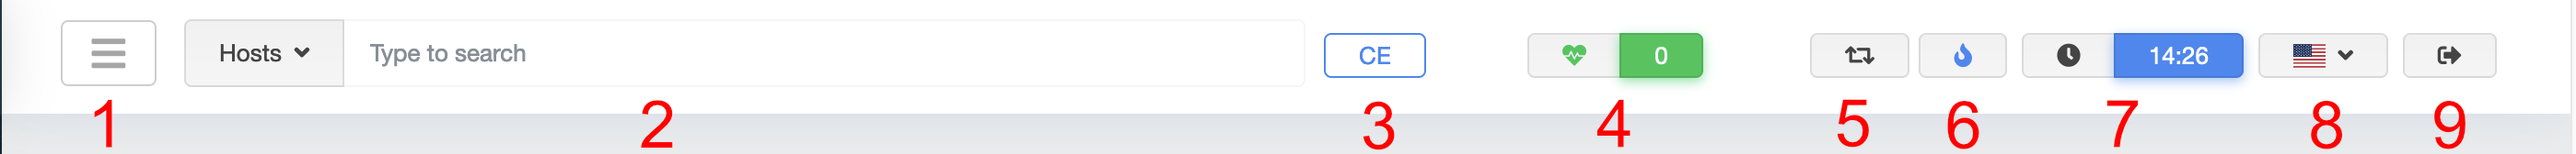
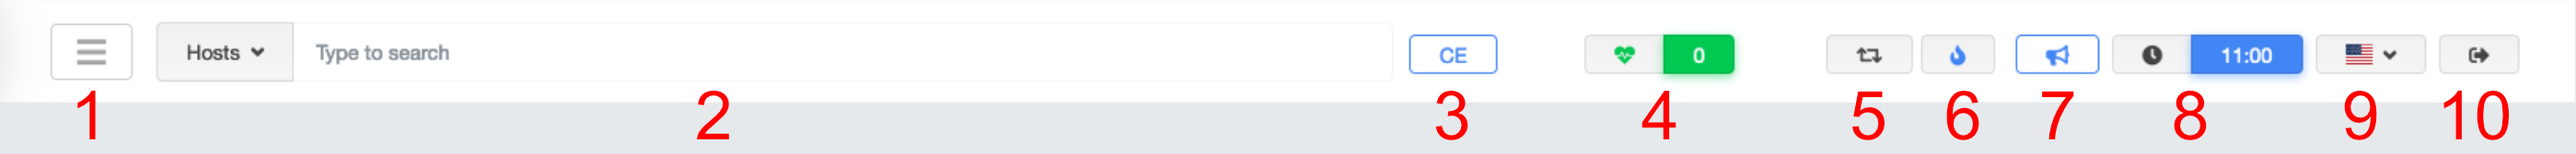
Documentation for 'Message of the day' added

diff --git a/de/docs/configuration/usermanagement.md b/de/docs/configuration/usermanagement.md
@@ -141,3 +141,27 @@ Benutzer Container Rolle verwendet werden.
 |---|---|---|
 | Rollenname | :fontawesome-solid-times: | Name der Benutzer Container Rolle |
 | Container | :fontawesome-solid-times: | [Container](../container/), welche der Benutzer Container Rolle zugewiesen werden sollen  |
+
+
+### Meldung des Tages erstellen
+
+
+| Feld | Erforderlich | Beschreibung |
+|---|---|---|
+| Title | :fontawesome-solid-times: | Pflichtfeld - Der Title wird ganz oben angezeigt und wird als Überschrift verwendet |
+| Description | | Hier erhält Benutzer die Möglichkeit eine kurze Beschreibung für die Meldung des Tages zu hinterlegen |
+| Datum | :fontawesome-solid-times: | Pflichtfeld -Das Datum wird für das Anzeigen des Meldung des Tages verwendet |
+| Ablaufdauer | | Optionales Pflichtfeld - mit dem Setzen der Ablaufdauer wird die Meldung des Tages nur vorübergehend angezeigt  |
+| Filter für Benutzergruppe| | Hier kann die Sichtbarkeit für Meldung des Tages für bestimmte Gruppen eingeschränkt werden |
+| Benachrichtigung für Benutzer | | Wenn aktiv, werden betroffene Benutzer per Email benachrichtigt |
+| Style | :fontawesome-solid-times: | Folgende Style-Eigenschaften stehen zur Auswahl: <span class="badge badge-info" title="info">info</span> <span class="badge badge-primary" title="primary">primary</span> <span class="badge badge-success" title="success">success</span> <span class="badge badge-warning" title="warning">warning</span> <span class="badge badge-danger" title="danger">danger</span>|
+| Text | :fontawesome-solid-times: | Text für die Meldung des Tages |
+
+Durch die Styleauswahl kann der Benutzer eine visuelle Informationswichtigkeit beziehungsweise Informationsart verdeutlichen.
+
+![message of the day](/images/configuration/message-otd-styles.png)
+
+Für das Erstellen des Textes steht ein WYSISYG Editor mit rudimentären Funktionen, wie Textfarbe, -größe und -ausrichtung und ähnliches, zur Verfügung. Mithilfe des Editors kann der eingegebene Text formatiert werden. 
+Alle Änderungen werden sofort im Vorschaufenster angezeigt.  
+
+![wysiwyg text editor](/images/configuration/message-otd-wysiwyg.png)

diff --git a/de/docs/monitoring/user-interface.md b/de/docs/monitoring/user-interface.md
@@ -22,9 +22,10 @@ Aktionen
 4. [Systemzustand (System Health)](#system-health) 
 5. [Export](../basic-principles/#export) Schaltfläche
 6. Zeigt an, ob eine neue openITCOCKPIT Version verfügbar ist. Nur sichtbar, wenn dies der Fall ist.
-7. Aktuelle [(Server)Uhrzeit](#system-uhrzeiten)
-8. Sprachauswahlbox
-9. Log-out
+7. Zeigt die [Meldung des Tages](#meldung-des-tages) an
+8. Aktuelle [(Server)Uhrzeit](#system-uhrzeiten)
+9. Sprachauswahlbox
+10. Log-out
 
 
 ##### System health
@@ -34,6 +35,20 @@ Arbeitsspeicherauslastung sowie nicht laufenden Dienste, angezeigt.
 Ist die Anzeige leer und in der Farbe Grün dargestellt, ist mit dem Server alles in Ordnung (siehe screenshot). 
 
 ![system health](/images/system-health.png)
+
+##### Meldung des Tages
+
+Um alle Benutzer oder ausgewählte Benutzergruppen gleichzeitig über ein bestimmtes Ereigniss informieren zu können, besteht im openITCOCKPIT die Möglichkeit eine `Meldung des Tages` zu erstellen. 
+Diese Meldung wird immer nach dem Einloggen automatisch eingeblendet. 
+
+![message of the day](/images/message-otd-modal.png)
+
+
+Zusätzlich kann die `Medlung des Tages` über das Klicken auf den Menüpunkt (7) eingeblendet werden.
+
+![message of the day](/images/message-of-the-day.png)
+
+Die [Konfiguration](../../configuration/usermanagement/#meldung-des-tages-erstellen) der `Meldung des Tages` findet man als separaten Punkt unter Benutzerverwaltung 
 
 ##### System Uhrzeiten
 Das User-Interface ist in der Lage zwei verschiedene Uhrzeiten anzuzeigen. 
